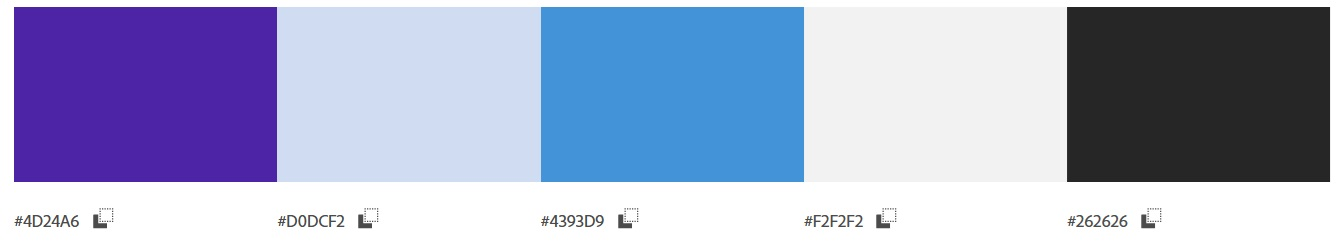
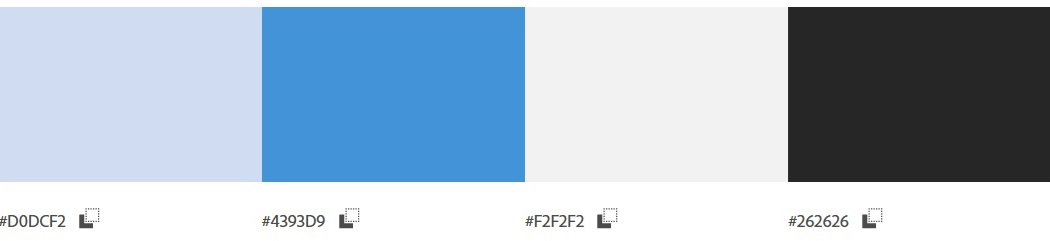
edit readme file (colours)

diff --git a/README.md b/README.md
@@ -54,7 +54,6 @@ The design focuses on:
 
 ### 🎨 Color Scheme
 The portfolio follows a modern and visually appealing color scheme with a mix of bold and neutral tones:
-- **Primary Color:** (Deep Purple - #4D24A6): Adds a professional and stylish touch, making key elements stand out.
 - **Accent Color:** (Sky Blue - #4393D9): Provides contrast and a fresh, dynamic feel, ideal for highlighting buttons and interactive elements.
 - **Background Color:** (Light Grey - #F2F2F2): Ensures readability and a clean, minimalist look.
 - **Secondary Background:** (Light Blue - #D0DCF2): Complements the primary colors while maintaining a harmonious balance.
@@ -128,7 +127,7 @@ Soft Skills: Strong work ethic, adaptability, attention to detail, independence,
 
 ---
 ## 🚀 Future Features
-- **Downloadable CV**: Provide a DOCX version of my resume.
+- **Downloadable CV**: Provide a PDF version of my resume.
 - **Dark mode toggle**: Improve accessibility for users.
 - **More interactive elements**: Enhance user engagement.
 
